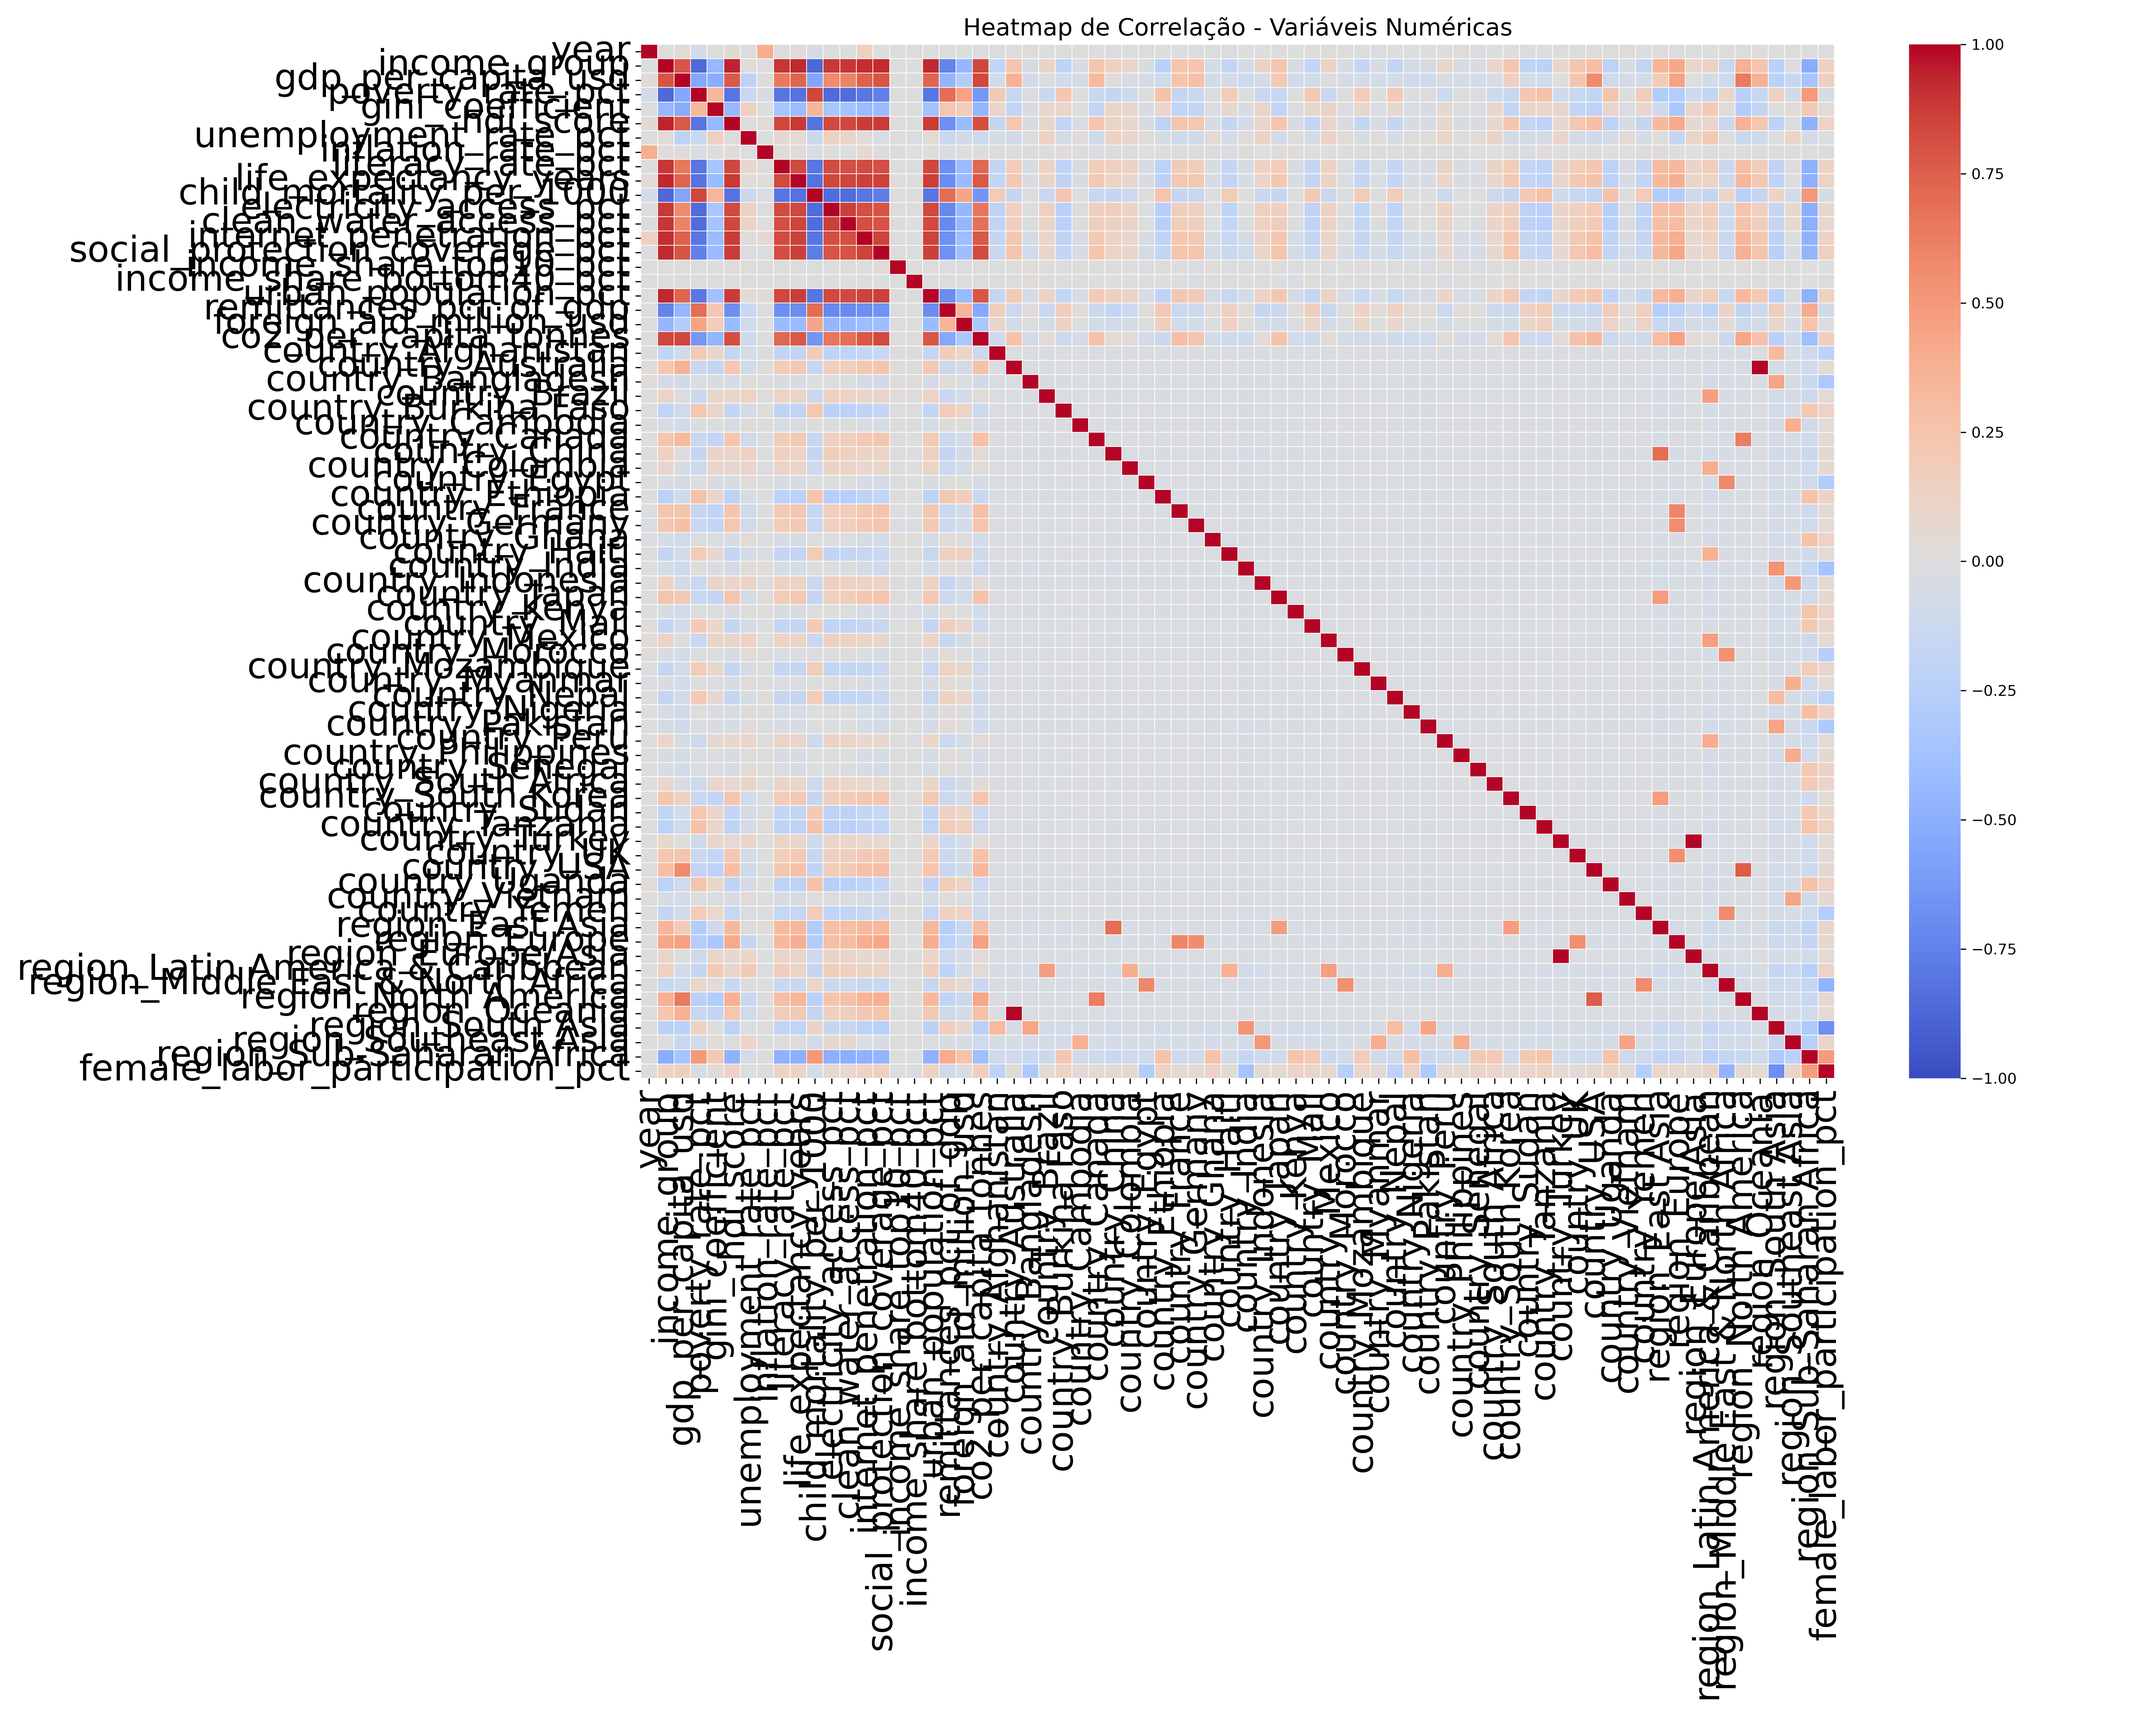
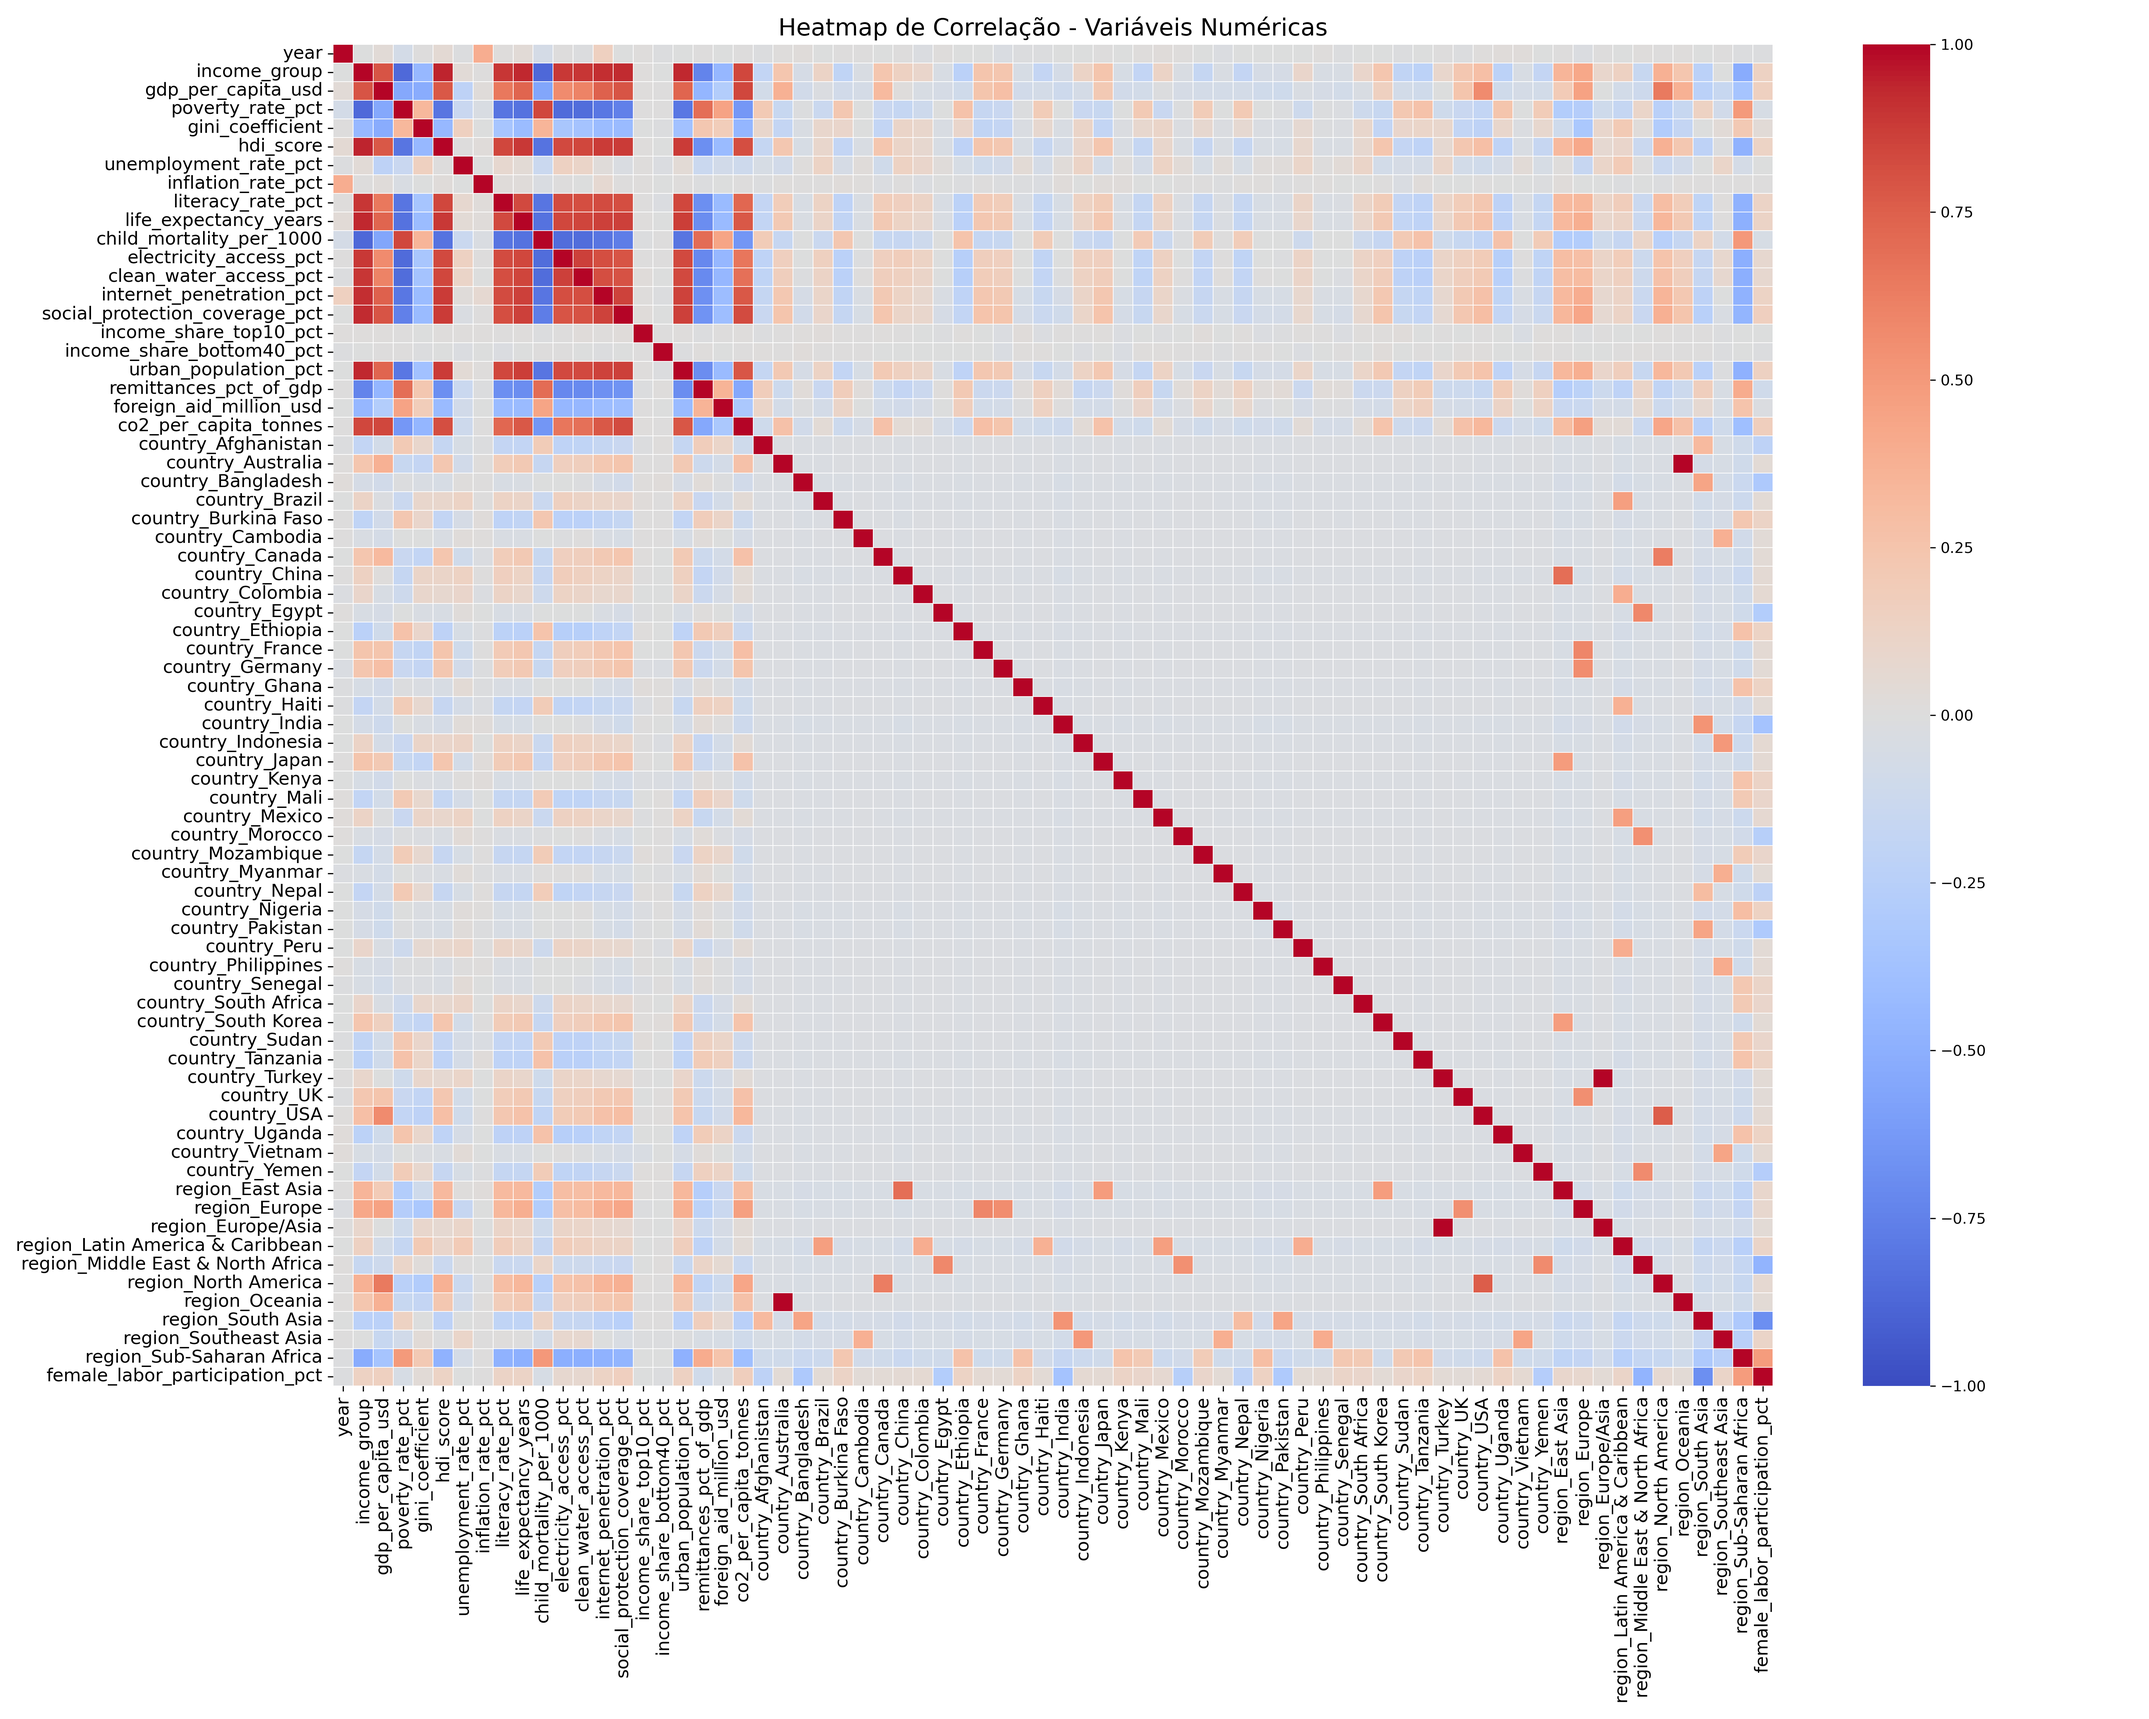
Refactor model parameters and update visualizations for better clarity

diff --git a/regressao-svr.py b/regressao-svr.py
@@ -17,7 +17,7 @@ import os
 warnings.filterwarnings('ignore')
 
 # Toggle para testar múltiplas possibilidades (GridSearch, Seleção de Variáveis) ou apenas rodar a melhor configuração do modelo.
-TESTAR_POSSIBILIDADES = True
+TESTAR_POSSIBILIDADES = False
 
 # =============================================================================
 # 1. Importação do Pré-Processamento do Professor
@@ -45,7 +45,7 @@ def executar_teste(X_train, y_train, X_test, y_test, nomes_colunas, nome_teste, 
 
     if testar_possibilidades:
         param_grid = {
-            'kernel': ['rbf'],
+            'kernel': ['rbf', 'linear', 'sigmoid'],
             'C': [0.1, 0.4, 0.8,1.5, 2.0,2.5, 3.0, 10.0],
             'gamma': ['scale'],
             'epsilon': [0.01, 0.1, 0.5, 0.8, 1.0]
@@ -57,7 +57,7 @@ def executar_teste(X_train, y_train, X_test, y_test, nomes_colunas, nome_teste, 
         print(f"[{nome_teste}] Melhor configuração: {grid_search.best_params_}")
     else:
         print(f"[{nome_teste}] 1. Treinando modelo com a melhor configuração predefinida...")
-        melhor_modelo = SVR(kernel='rbf', C=1.0, epsilon=0.1, gamma='scale')
+        melhor_modelo = SVR(kernel='rbf', C=10.0, epsilon=0.5, gamma='scale')
 
     print(f"[{nome_teste}] 2. Rodando Validação Cruzada KFold...")
     scores = cross_validate(melhor_modelo, X_train, y_train, cv=cv_strategy, scoring=('r2', 'neg_mean_absolute_error', 'neg_mean_squared_error', 'neg_root_mean_squared_error'))

diff --git a/regressao-redes-neurais.py b/regressao-redes-neurais.py
@@ -17,7 +17,7 @@ import warnings
 warnings.filterwarnings('ignore')
 
 # Toggle para testar múltiplas possibilidades (GridSearch, Seleção de Variáveis) ou apenas rodar a melhor configuração do modelo.
-TESTAR_POSSIBILIDADES = True
+TESTAR_POSSIBILIDADES = False
 
 # =============================================================================
 # 1. Importação do Pré-Processamento do Professor
@@ -56,7 +56,7 @@ def executar_teste(X_train, y_train, X_test, y_test, nomes_colunas, nome_teste, 
         print(f"[{nome_teste}] Melhor configuração: {grid_search.best_params_}")
     else:
         print(f"[{nome_teste}] 1. Treinando modelo com a melhor configuração predefinida...")
-        melhor_modelo = MLPRegressor(hidden_layer_sizes=(100,), activation='relu', max_iter=500, random_state=42)
+        melhor_modelo = MLPRegressor(hidden_layer_sizes=(5,), activation='tanh', max_iter=500, random_state=42)
 
     print(f"[{nome_teste}] 2. Rodando Validação Cruzada KFold...")
     scores = cross_validate(melhor_modelo, X_train, y_train, cv=cv_strategy, scoring=('r2', 'neg_mean_absolute_error', 'neg_mean_squared_error', 'neg_root_mean_squared_error'))

diff --git a/analise-variaveis.py b/analise-variaveis.py
@@ -57,8 +57,8 @@ matriz_corr = df_completo.corr()
 
 # Mapa de Calor
 ax = sns.heatmap(matriz_corr, annot=False, cmap='coolwarm', vmin=-1, vmax=1, linewidths=0.1)
-ax.tick_params(axis='x', labelsize=24)
-ax.tick_params(axis='y', labelsize=24)
+ax.tick_params(axis='x', labelsize=12)
+ax.tick_params(axis='y', labelsize=12)
 plt.title("Heatmap de Correlação - Variáveis Numéricas", fontsize=16)
 plt.tight_layout()
 

diff --git a/regressao-arvore.py b/regressao-arvore.py
@@ -46,7 +46,7 @@ def executar_teste(X_train, y_train, X_test, y_test, nomes_colunas, nome_teste, 
             'max_depth': [None, 5, 10, 15, 20],
             'min_samples_split': [2, 5, 10],
             'min_samples_leaf': [1, 2, 4],
-            'random_state': [42]
+            'random_state': [42],
         }
 
         print(f"[{nome_teste}] 1. Treinando e otimizando parâmetros (GridSearch)...")
